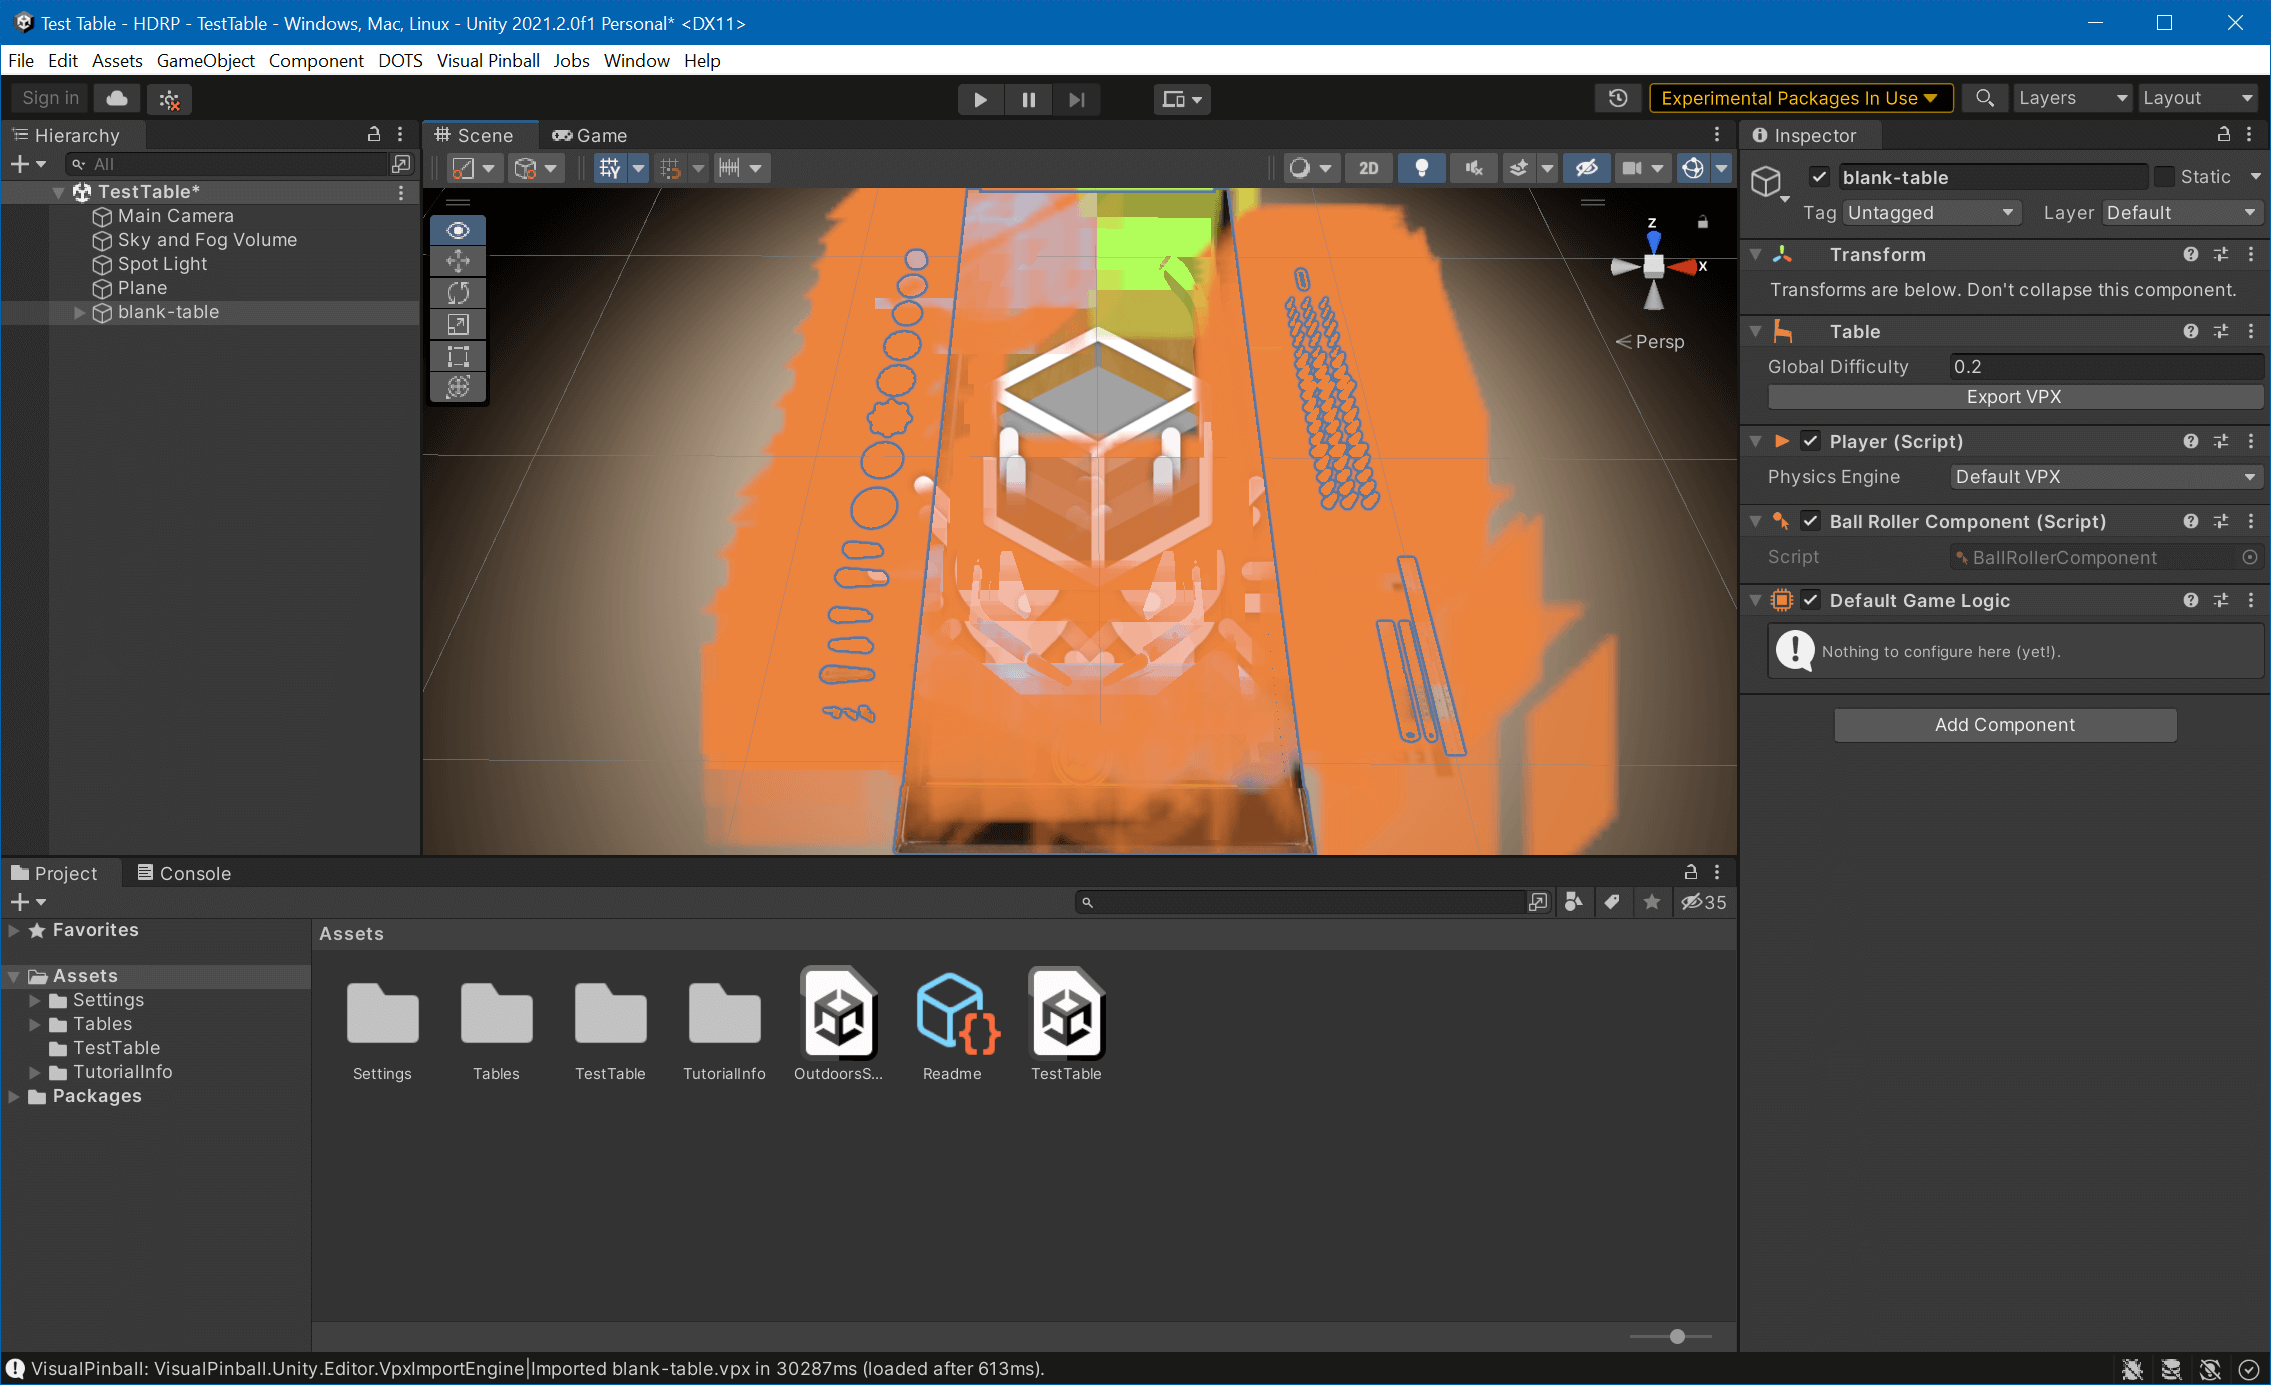
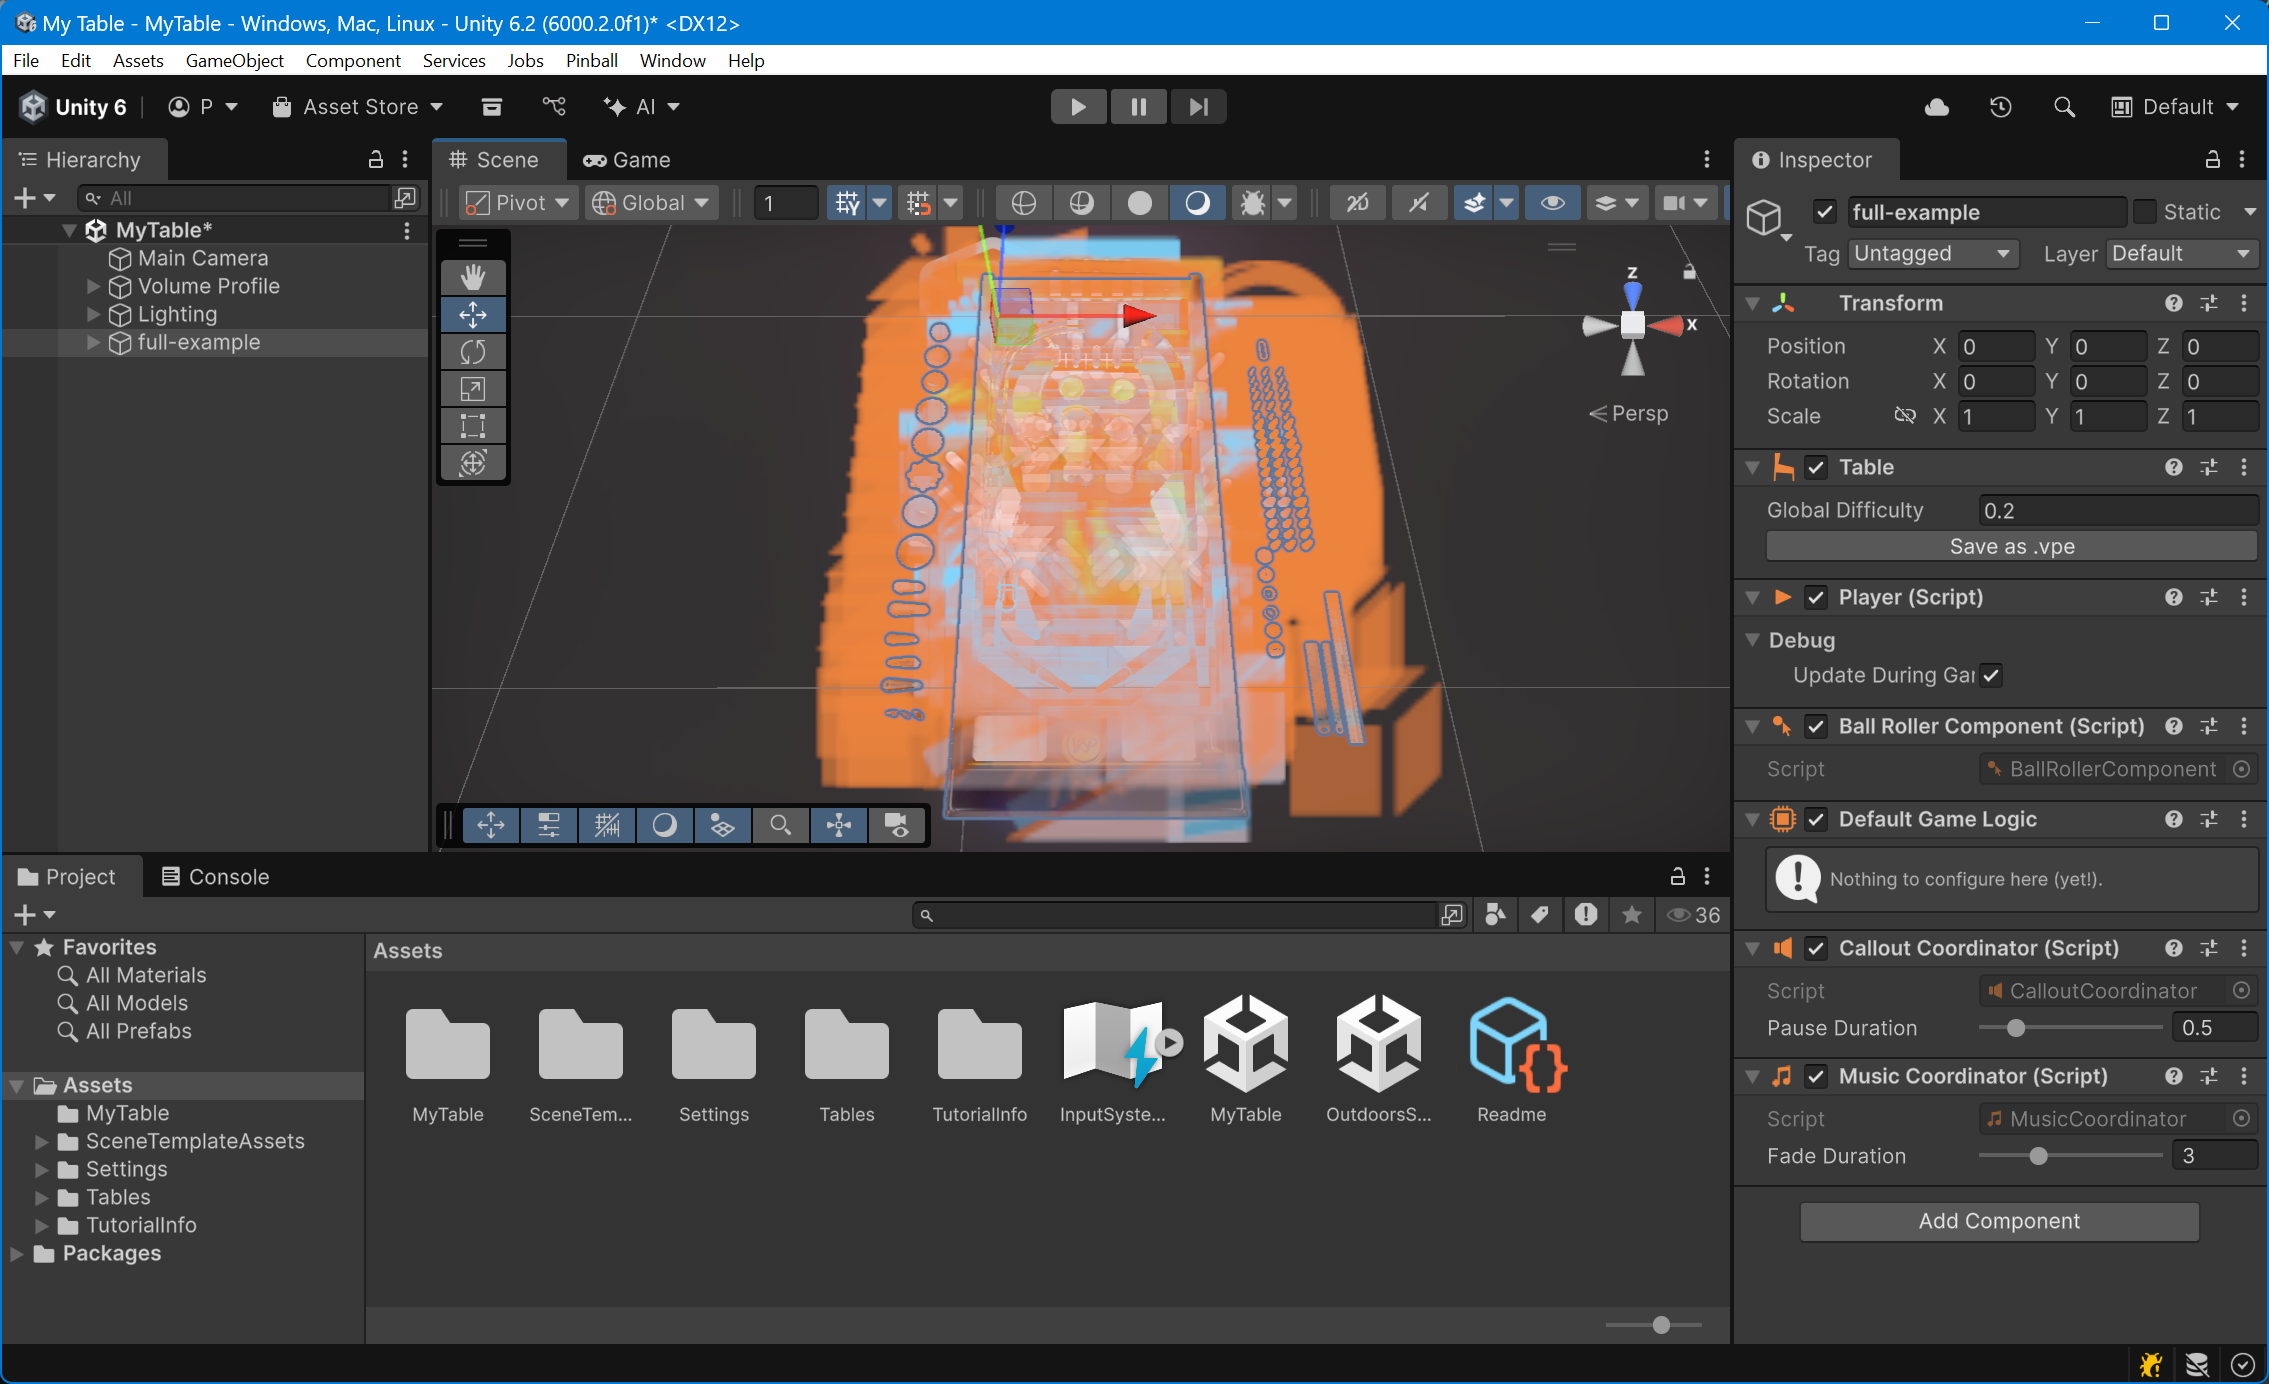
doc: Update with latest shot.

diff --git a/VisualPinball.Unity/Documentation~/creators-guide/setup/running-vpe.md b/VisualPinball.Unity/Documentation~/creators-guide/setup/running-vpe.md
@@ -4,7 +4,7 @@ description: How to run VPE
 ---
 # Running VPE
 
-Now we can begin with some simple game play. Open [Visual Pinball](https://github.com/vpinball/vpinball), create a new "blank" table, and save it somewhere. In Unity, go to *Visual Pinball -> Import VPX* and choose the `.vpx` file you've just created.
+Now we can begin with some simple game play. Open [Visual Pinball](https://github.com/vpinball/vpinball), create a new "Full Example Table", and save it somewhere. In Unity, go to *Pinball -> Import VPX* and choose the `.vpx` file you've just created.
 
 You should now see Visual Pinball's blank table in the Editor's scene view:
 
